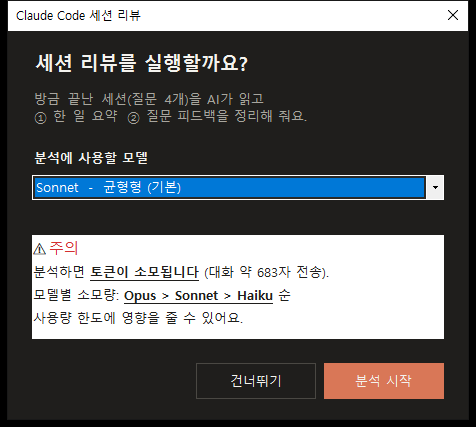
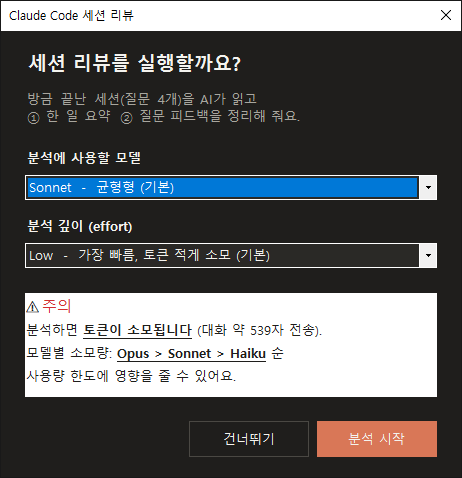
README 스크린샷을 effort 선택이 포함된 새 버전으로 교체, 업데이트 내역 추가
- images/confirm.png, images/result.png 갱신
- README: 사용 예시에 effort 선택 반영, 업데이트 내역 섹션 추가

diff --git a/README.md b/README.md
@@ -76,7 +76,7 @@ Copy-Item session-review-hook\session-review.ps1 "$HOME\.claude\hooks\"
 ## 훅 사용 예시
 
 1. 평소처럼 Claude Code를 사용하다가 `/exit`로 세션을 끝냅니다.
-2. 확인 창이 뜨면 모델을 고르고 **분석 시작**을 누릅니다. (원치 않으면 **건너뛰기**)
+2. 확인 창이 뜨면 모델과 분석 깊이(effort)를 고르고 **분석 시작**을 누릅니다. (원치 않으면 **건너뛰기**)
 3. 7초~1분 뒤 결과 창이 표시됩니다.
 
 **1. 세션 종료 시 뜨는 확인 창**
@@ -104,3 +104,16 @@ Copy-Item session-review-hook\session-review.ps1 "$HOME\.claude\hooks\"
 ## 제거
 
 `~/.claude/settings.json`의 `hooks.SessionEnd`에서 해당 항목을 지우고 `~/.claude/hooks/session-review.ps1`을 삭제하세요.
+
+## 업데이트 내역
+
+### 2026-10-26
+
+- **분석 깊이(effort) 선택 추가**: 확인 창에서 모델과 함께 effort(`low` ~ `max`)를 고를 수 있습니다. 기본값은 `low`이고, 결과 창 하단에 사용한 모델·effort가 표시됩니다. `claude` CLI의 `--effort` 옵션이 필요합니다.
+- **설치 스크립트 버전 검사**: PowerShell 7.3 미만(Windows 기본 5.1 포함)에서 `install.ps1`을 실행하면 설치를 시작하기 전에 안내 문구를 보여주고 중단합니다. (이전에는 5.1에서 파일만 내려받고 훅 등록은 실패하는 반쪽 설치가 될 수 있었습니다.)
+- **README 보강**: 요구 사항을 "PowerShell 7.3 이상"으로 명시하고, 한 줄 설치는 `pwsh` 창에서 실행하도록 안내를 추가했습니다.
+- **스크린샷 갱신**: 확인 창(effort 선택 포함)과 결과 창 이미지를 새 버전으로 교체했습니다.
+
+### 최초 공개
+
+- 세션 종료 시 한 일 요약과 질문 피드백을 보여주는 `session-review` 훅
